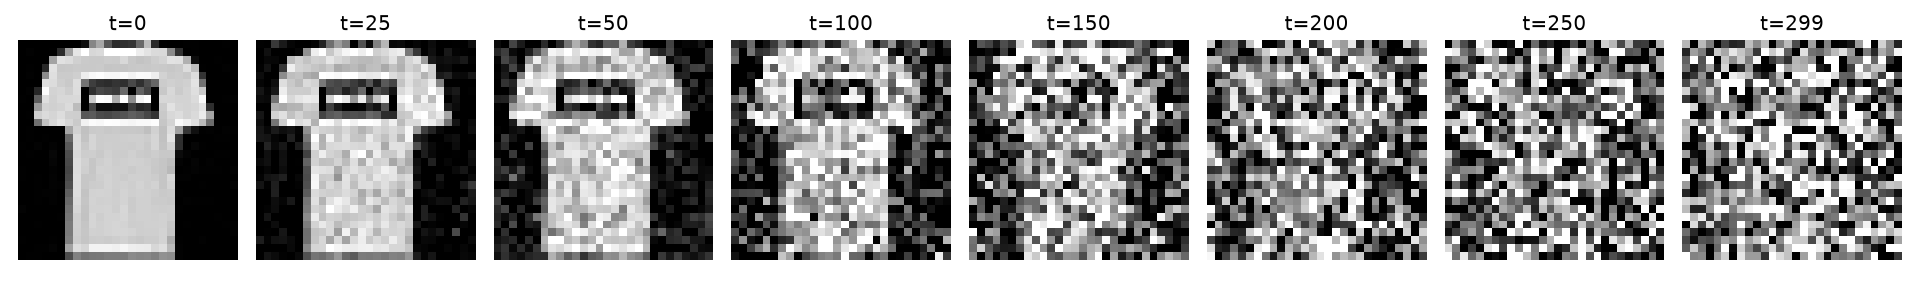
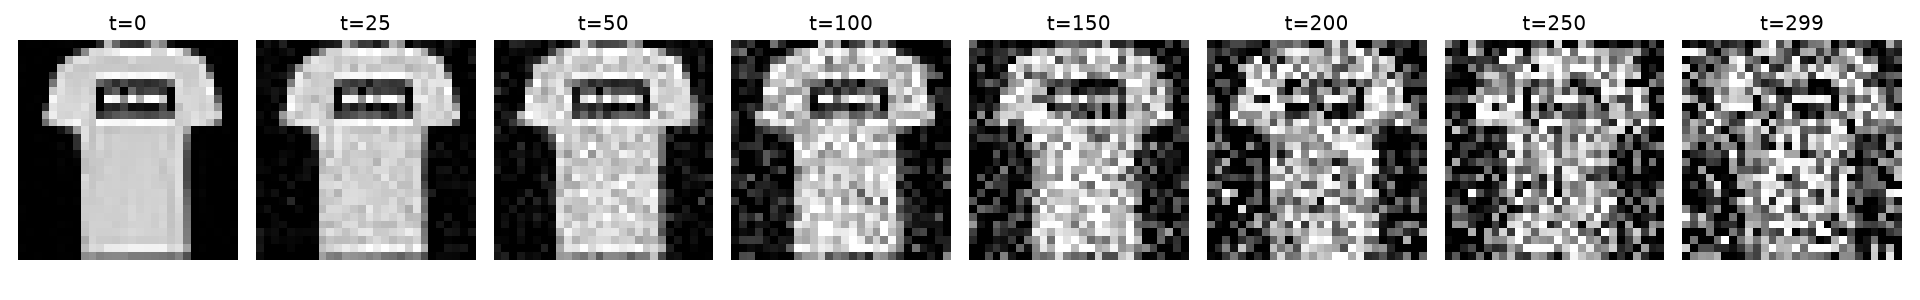
feat: sample animations!

diff --git a/sample_images.py b/sample_images.py
@@ -5,6 +5,7 @@ from data import CHANNELS, IMAGE_SIZE
 from diffusion import sample
 from model import Unet
 from visualize import to_image
+import matplotlib.animation as animation
 
 device = "cuda" if torch.cuda.is_available() else "cpu"
 
@@ -24,10 +25,11 @@ plt.tight_layout()
 plt.savefig("samples.png", dpi=120)
 
 # some images along the journey
-steps = [299, 250, 200, 150, 100, 50, 25, 0]
+steps = [999, 800, 600, 400, 250, 150, 50, 0]
 fig, axes = plt.subplots(1, len(steps), figsize=(2 * len(steps), 2.5))
 for ax, t in zip(axes, steps):
-    ax.imshow(to_image(frames[299 - t][0]), cmap="gray", vmin=0, vmax=1)
+    # frames[-1] is t=0, so frames[-1 - t] is timestep t, whatever TIMESTEPS is
+    ax.imshow(to_image(frames[-1 - t][0]), cmap="gray", vmin=0, vmax=1)
     ax.set_title(f"t={t}")
     ax.axis("off")
 plt.tight_layout()
@@ -35,3 +37,19 @@ plt.savefig("reverse_process.png", dpi=120)
 
 print(f"saved samples.png and reverse_process.png")
 print(f"final std {final.std():.3f}  (want near 1.0, not 4.8)")
+
+
+fig, ax = plt.subplots(figsize=(3, 3))
+ax.axis("off")
+im = ax.imshow(to_image(frames[0][0]), cmap="gray", vmin=0, vmax=1, animated=True)
+
+# every 5th frame keeps the file small; then hold on the result so it doesn't snap back
+order = list(range(0, len(frames), 5)) + [len(frames) - 1] * 25
+
+def update(i: int):
+    im.set_data(to_image(frames[i][0]))
+    return (im,)
+
+ani = animation.FuncAnimation(fig, update, frames=order, interval=40, blit=True)
+ani.save("reverse.gif", writer="pillow", fps=25)
+print("saved reverse.gif")
